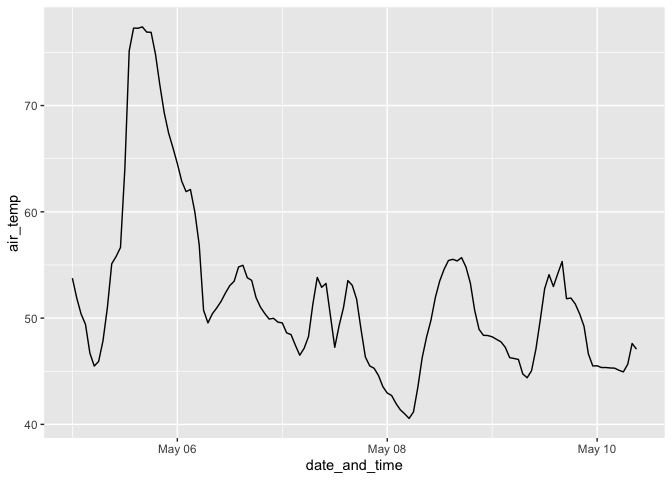
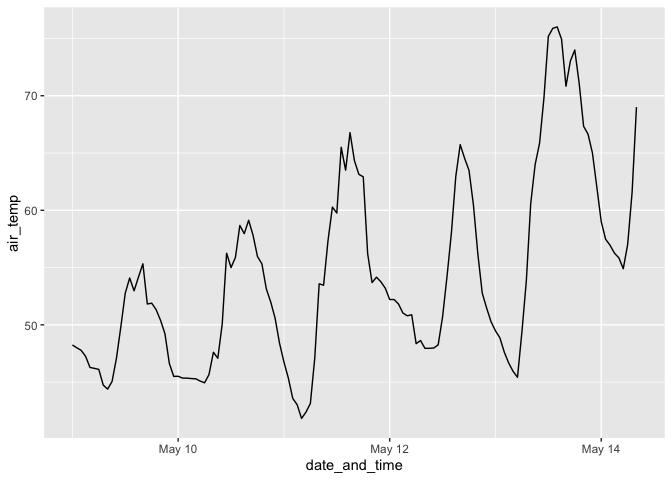
update readme

diff --git a/README.md b/README.md
@@ -10,9 +10,15 @@
 experimental](https://img.shields.io/badge/lifecycle-experimental-orange.svg)](https://lifecycle.r-lib.org/articles/stages.html#experimental)
 <!-- badges: end -->
 
-The goal of rcoagmet is to provide functions for downloading data from
-[CoAgMet](https://coagmet.colostate.edu/) weather stations, using their
-[Data API](https://coagmet.colostate.edu/data/doc.html).
+The goal of [rcoagmet](#rcoagmet)(emberr
+(<https://github.com/andypicke/emberr>) is to provide functions for
+downloading data from [CoAgMet](https://coagmet.colostate.edu/) weather
+stations, using their [Data
+API](https://coagmet.colostate.edu/data/doc.html).
+
+See also this [blog
+post](https://andypicke.quarto.pub/portfolio/posts/rcoagmet/rcoagmet.html)
+describing the package and showing some examples.
 
 # Installation
 
@@ -79,12 +85,12 @@ head(latest)
 #> # A tibble: 6 × 15
 #>   station date_and_time       air_temp    rh dewpoint solar_rad x5min_precip
 #>   <chr>   <dttm>                 <dbl> <dbl>    <dbl>     <dbl>        <dbl>
-#> 1 akr02   2024-05-10 09:00:00     53.3 0.648     41.7     624.            NA
-#> 2 alt01   2024-05-10 09:00:00     51.2 0.567     36.4     333             NA
-#> 3 avn01   2024-05-10 09:20:00     47.2 0.868     43.5     246.             0
-#> 4 bla01   2024-05-10 09:20:00     35.3 0.922     33.3     727.             0
-#> 5 bnv01   2024-05-10 09:20:00     35.3 0.879     32.1      53.9            0
-#> 6 brg01   2024-05-10 09:00:00     55.0 0.53      38.2     524.            NA
+#> 1 akr02   2024-05-14 08:00:00     61.2 0.604     47.3      447.           NA
+#> 2 alt01   2024-05-14 08:00:00     63.6 0.442     41.4      405.           NA
+#> 3 avn01   2024-05-14 08:50:00     67.9 0.471     47.0      416.            0
+#> 4 bla01   2024-05-14 08:55:00     56.7 0.43      34.4      677             0
+#> 5 bnv01   2024-05-14 08:50:00     56.9 0.408     33.3      711.            0
+#> 6 brg01   2024-05-14 08:00:00     63.3 0.479     43.2      243.           NA
 #> # ℹ 8 more variables: hourly_precip <dbl>, wind <dbl>, wind_dir <dbl>,
 #> #   gust_speed <dbl>, gust_dir <dbl>, x5cm_soil_temp <dbl>,
 #> #   x15cm_soil_temp <dbl>, date <date>
@@ -120,12 +126,12 @@ head(df)
 #> # A tibble: 6 × 14
 #>   station date_and_time       air_temp    rh dewpoint solar_rad precip  wind
 #>   <chr>   <dttm>                 <dbl> <dbl>    <dbl>     <dbl>  <dbl> <dbl>
-#> 1 den01   2024-05-05 00:00:00     53.8 0.409     30.5      0         0  2.99
-#> 2 den01   2024-05-05 01:00:00     51.9 0.466     32.1      0         0  2.52
-#> 3 den01   2024-05-05 02:00:00     50.4 0.533     34.0      0         0  1.84
-#> 4 den01   2024-05-05 03:00:00     49.4 0.569     34.8      0         0  2.81
-#> 5 den01   2024-05-05 04:00:00     46.7 0.604     33.7      0         0  3   
-#> 6 den01   2024-05-05 05:00:00     45.5 0.595     32.2      1.87      0  2.89
+#> 1 den01   2024-05-09 00:00:00     48.2 0.262     15.1      0         0  1.93
+#> 2 den01   2024-05-09 01:00:00     48   0.255     14.3      0         0  2.15
+#> 3 den01   2024-05-09 02:00:00     47.8 0.255     14.1      0         0  1.28
+#> 4 den01   2024-05-09 03:00:00     47.2 0.284     16.1      0         0  0.68
+#> 5 den01   2024-05-09 04:00:00     46.3 0.329     18.7      0         0  1.65
+#> 6 den01   2024-05-09 05:00:00     46.2 0.347     19.8      0.82      0  3.1 
 #> # ℹ 6 more variables: wind_dir <dbl>, gust_speed <dbl>, gust_dir <dbl>,
 #> #   x5cm_soil_temp <dbl>, x15cm_soil_temp <dbl>, date <date>
 ```
